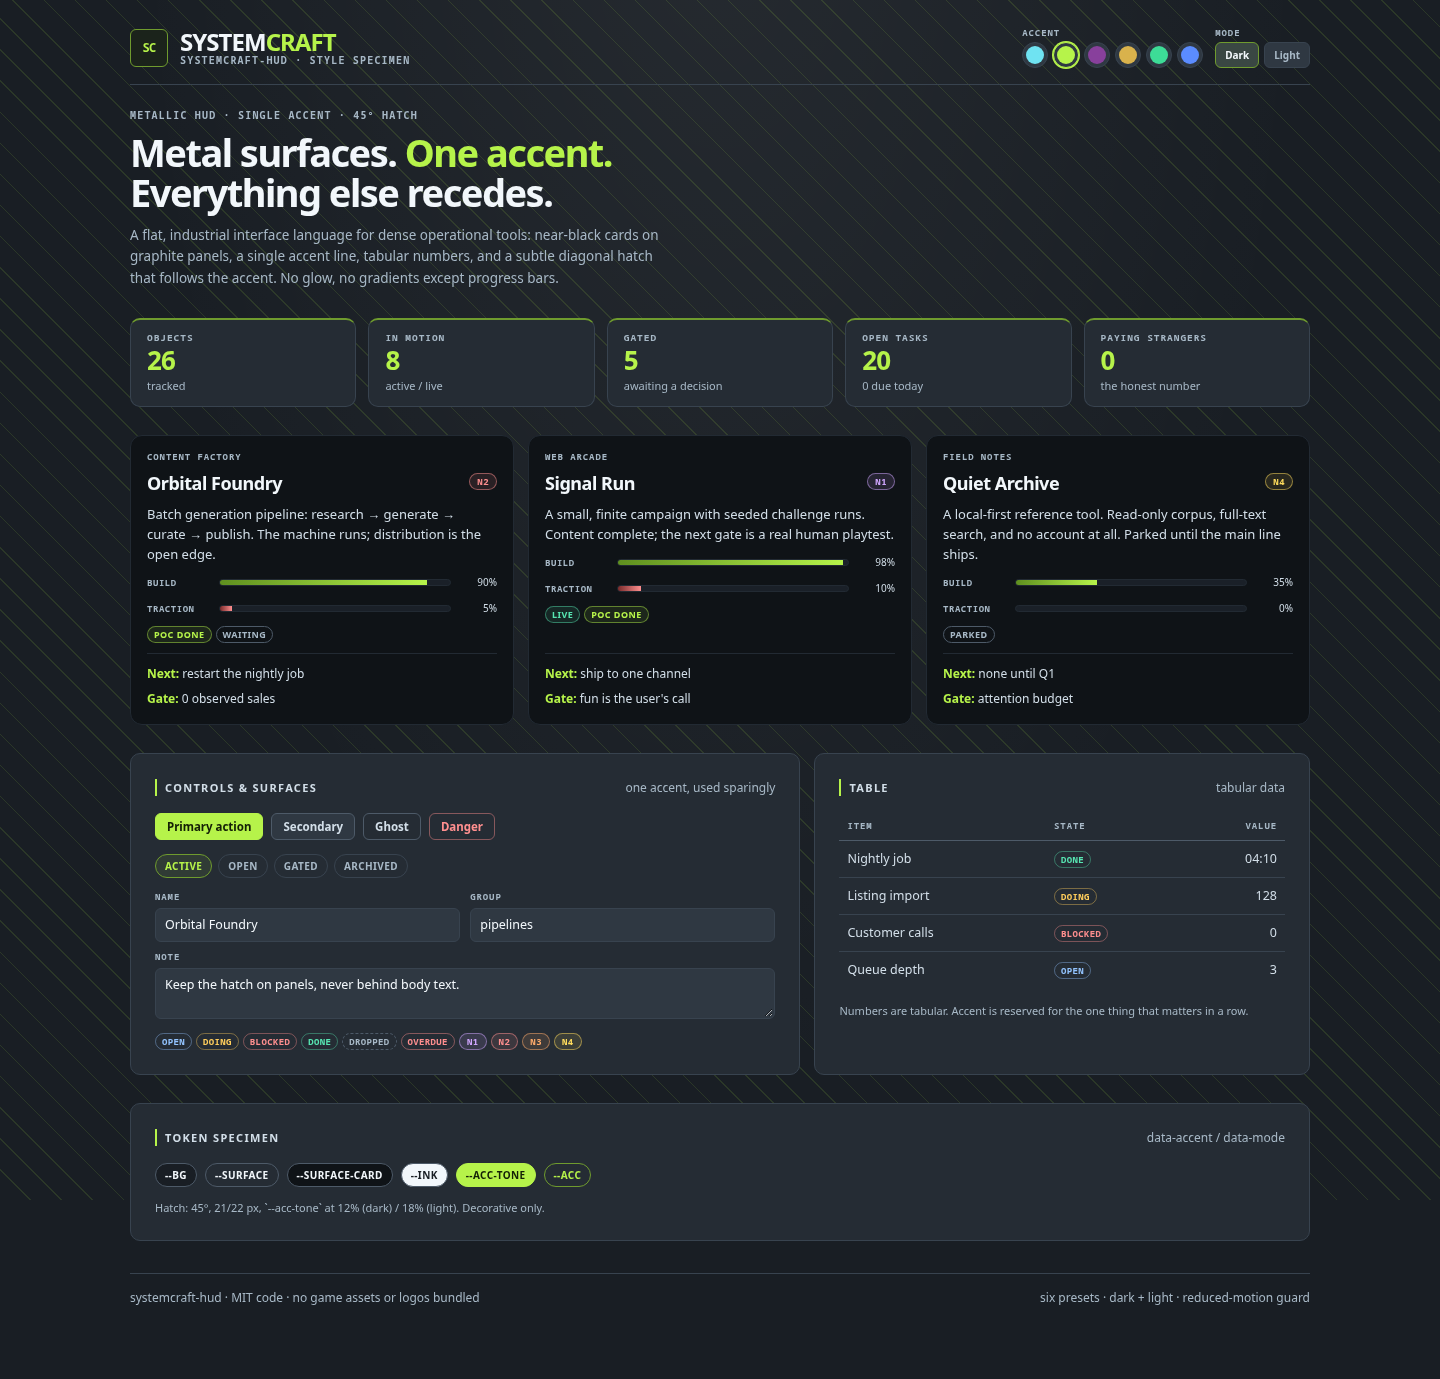
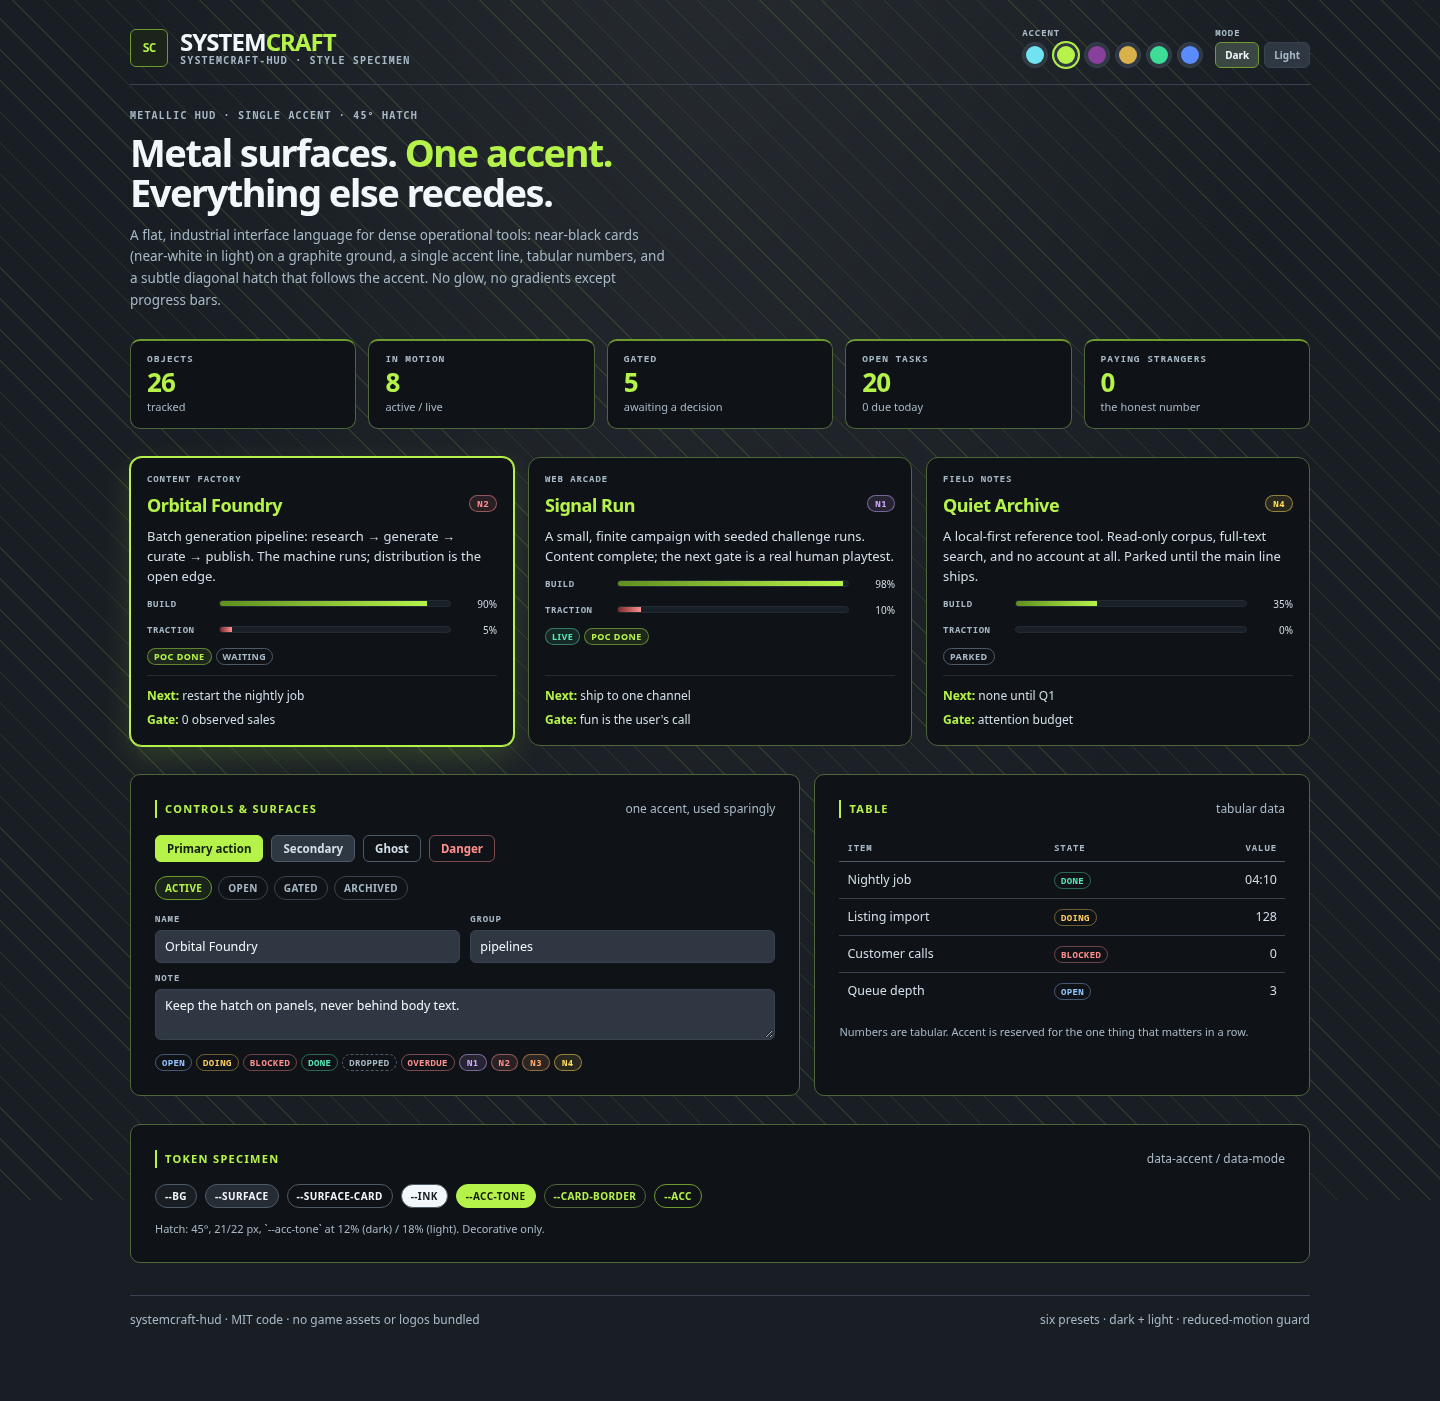
style(systemcraft-hud): black cards, accent titles, and hue hover
Every sc-panel, sc-card, sc-stat, and modal card now uses the card surface, an accent-tinted 1px border, and an accent title. Hover adds a 1px accent ring (visual 2px border) and a 16% accent shadow without lightening the surface or shifting layout. The design spec, tokens, demo, and preview were updated.

diff --git a/styles/systemcraft-hud/theme.css b/styles/systemcraft-hud/theme.css
@@ -76,6 +76,9 @@
   --acc-soft: #5f8f1f;
   --acc-line: #6f9b2e;
   --acc-ink: #142006;
+  --card-border: color-mix(in srgb, var(--acc) 30%, var(--card-line));
+  --card-shadow-hot: 0 0 0 1px var(--acc),
+    0 12px 30px color-mix(in srgb, var(--acc) 16%, transparent);
 }
 
 /* ------------------------------------------------------------ tokens: light */
@@ -437,10 +440,12 @@ textarea {
 }
 
 .sc-panel {
-  background: var(--surface);
-  border: 1px solid var(--line);
+  background: var(--surface-card);
+  border: 1px solid var(--card-border);
   border-radius: var(--r-md);
   padding: var(--s5);
+  transition: border-color var(--dur) var(--ease),
+    box-shadow var(--dur) var(--ease);
 }
 
 .sc-panel-head {
@@ -456,26 +461,21 @@ textarea {
   font-size: 11px;
   text-transform: uppercase;
   letter-spacing: 0.12em;
-  color: var(--ink-2);
+  color: var(--acc);
   padding-left: 8px;
   border-left: 2px solid var(--acc);
 }
 
 .sc-card {
   background: var(--surface-card);
-  border: 1px solid var(--card-line);
+  border: 1px solid var(--card-border);
   border-radius: var(--r-lg);
   padding: var(--s4);
   display: flex;
   flex-direction: column;
   gap: 10px;
   transition: border-color var(--dur) var(--ease),
-    background var(--dur) var(--ease);
-}
-
-.sc-card:hover {
-  border-color: color-mix(in srgb, var(--acc) 26%, var(--line-2));
-  background: var(--card-bg-hover);
+    box-shadow var(--dur) var(--ease);
 }
 
 .sc-card .sc-card-kicker {
@@ -489,6 +489,7 @@ textarea {
   font-size: 18px;
   letter-spacing: -0.025em;
   line-height: 1.15;
+  color: var(--acc);
 }
 
 .sc-card p {
@@ -519,11 +520,13 @@ textarea {
 }
 
 .sc-stat {
-  background: var(--surface);
-  border: 1px solid var(--line);
+  background: var(--surface-card);
+  border: 1px solid var(--card-border);
   border-top: 2px solid var(--acc-line);
   border-radius: var(--r-md);
   padding: var(--s3) var(--s4);
+  transition: border-color var(--dur) var(--ease),
+    box-shadow var(--dur) var(--ease);
 }
 
 .sc-stat .label {
@@ -879,11 +882,29 @@ textarea {
   width: min(520px, 100%);
   max-height: calc(100vh - 40px);
   overflow: auto;
-  background: var(--bg-2);
-  border: 1px solid var(--line-2);
+  background: var(--surface-card);
+  border: 1px solid var(--card-border);
   border-radius: var(--r-lg);
   box-shadow: var(--shadow);
   padding: var(--s5);
+  transition: border-color var(--dur) var(--ease),
+    box-shadow var(--dur) var(--ease);
+}
+
+
+/* card interaction — every card keeps its black surface and gains the accent
+   ring + hue shadow on hover, with no background lightening or layout shift */
+.sc-panel:hover,
+.sc-card:hover,
+.sc-stat:hover,
+.sc-modal .sc-modal-card:hover {
+  border-color: var(--acc);
+  box-shadow: var(--card-shadow-hot);
+}
+
+.sc-modal .sc-modal-card:hover {
+  box-shadow: var(--shadow), 0 0 0 1px var(--acc),
+    0 12px 30px color-mix(in srgb, var(--acc) 16%, transparent);
 }
 
 @media (prefers-reduced-motion: reduce) {

diff --git a/styles/systemcraft-hud/demo.html b/styles/systemcraft-hud/demo.html
@@ -87,7 +87,7 @@
     <div class="sc-kicker">metallic HUD · single accent · 45° hatch</div>
     <h2 class="big">Metal surfaces. <b>One accent.</b><br>Everything else recedes.</h2>
     <p class="sc-sub" style="max-width: 70ch;">A flat, industrial interface language for dense operational tools:
-      near-black cards on graphite panels, a single accent line, tabular numbers, and a subtle diagonal hatch
+      near-black cards (near-white in light) on a graphite ground, a single accent line, tabular numbers, and a subtle diagonal hatch
       that follows the accent. No glow, no gradients except progress bars.</p>
   </section>
 
@@ -206,6 +206,7 @@
       <span class="sc-chip" style="color:var(--ink);background:var(--surface-card);border-color:var(--line-2);">--surface-card</span>
       <span class="sc-chip" style="color:var(--bg);background:var(--ink);border-color:var(--line-2);">--ink</span>
       <span class="sc-chip" style="color:var(--acc-ink);background:var(--acc-tone);border-color:var(--acc-tone);">--acc-tone</span>
+      <span class="sc-chip" style="color:var(--acc);background:var(--surface-card);border-color:var(--card-border);">--card-border</span>
       <span class="sc-chip" style="color:var(--acc);border-color:var(--acc-line);">--acc</span>
     </div>
     <p class="demo-note" style="margin-top:12px;">Hatch: 45°, 21/22 px, `--acc-tone` at 12% (dark) / 18% (light). Decorative only.</p>

diff --git a/styles/systemcraft-hud/DESIGN.md b/styles/systemcraft-hud/DESIGN.md
@@ -22,11 +22,12 @@ numbers, and state must be readable at a glance.
 
 ## Core idea
 
-The style is **metal, not neon**. Surfaces are cool graphite; project cards are
-near-black (dark) or near-white (light); one accent is used for chrome,
-selection, focus, primary actions, and the hatch. Everything else is neutral.
-Depth comes from one-pixel borders and surface value changes, never from glow
-or large shadows.
+The style is **metal, not neon**. The page ground and controls are cool
+graphite; every card is near-black (dark) or near-white (light). One accent
+drives chrome, card titles, card borders, selection, focus, primary actions,
+and the hatch. Everything else is neutral. Depth is a one-pixel border and a
+surface value change; the only accent shadow is the low-opacity hover shadow
+on cards.
 
 The 45° hatch is the recognisable texture. It is decorative and always low
 contrast; it sits behind opaque content and never behind body text. The hatch
@@ -46,15 +47,16 @@ affiliation. A host project can re-point `--acc*` to its own brand.
 |---|---|---|
 | `--bg` | `#191e24` | page |
 | `--bg-2` | `#20262e` | modals / raised ground |
-| `--surface` | `#252c34` | panels |
-| `--surface-card` | `#0f1317` | cards (near-black) |
-| `--surface-2` | `#2f3842` | inputs, hover rails |
+| `--surface` | `#252c34` | controls / chrome |
+| `--surface-card` | `#0f1317` | every card (near-black) |
+| `--surface-2` | `#2f3842` | inputs, rails inside cards |
 | `--surface-3` | `#39434f` | pressed / strong rail |
 | `--line` | `#38434f` | borders |
 | `--line-2` | `#4d5a68` | strong borders |
-| `--card-line` | `#222a33` | card borders |
+| `--card-line` | `#222a33` | card border base |
+| `--card-border` | accent mix | 1 px card border: 30% accent + base |
+| `--card-shadow-hot` | accent mix | hover ring + tinted shadow |
 | `--card-track` | `#1a2028` | progress tracks |
-| `--card-bg-hover` | `#141a20` | card hover |
 | `--ink` | `#f2f7fb` | primary text |
 | `--ink-2` | `#d2dee8` | body text |
 | `--mut` | `#a7b8c6` | muted text / labels |
@@ -154,13 +156,18 @@ No scanlines, no glow, no grain, no vignette.
 
 ## Components
 
-- **Panel** (`sc-panel`): graphite surface, 1 px line, 10 px radius, 24 px
-  padding. A heading gets a 2 px accent left bar.
-- **Card** (`sc-card`): near-black/near-white, 1 px card-line, 12 px radius,
-  16 px padding. Hover lifts the border toward the accent and changes the
-  background to `--card-bg-hover`; no transform, no shadow.
-- **Stat / KPI** (`sc-stat`): panel with a 2 px accent top line; value is the
-  accent, 26 px, tabular. Label is uppercase mono.
+- **Panel** (`sc-panel`): near-black/near-white card surface, 1 px accent-tinted
+  border, 10 px radius, 24 px padding. A heading gets a 2 px accent left bar.
+  Controls inside stay on `--surface-2` for contrast.
+- **Card** (`sc-card`): near-black/near-white, 1 px accent-tinted border,
+  12 px radius, 16 px padding. The title is accent. Hover keeps the black
+  surface, sets the border to full accent, and adds a 1 px accent ring plus a
+  soft hue shadow; no background lightening, no transform.
+- **Stat / KPI** (`sc-stat`): near-black card with a 2 px accent top line; value
+  is the accent, 26 px, tabular. Label is uppercase mono. Same card hover.
+- **Card interaction:** all card-like surfaces share the near-black background,
+  accent-tinted border, accent title, and hover ring/shadow. The visual border
+  becomes 2 px via `box-shadow: 0 0 0 1px var(--acc)`; layout does not shift.
 - **Primary button** (`sc-btn.primary`): solid `--acc-tone`, `--acc-ink` text,
   no shadow. Hover mixes the fill with the page ink (lighter in dark, darker in
   light), so it stays in-family in both modes.
@@ -186,10 +193,11 @@ No scanlines, no glow, no grain, no vignette.
 ## Interaction
 
 - All interactive elements have a visible `:focus-visible` ring in `--acc`.
-- Hover changes border/background/text, never size or position. No `scale`,
-  no `translate` on hover.
-- Transition only `background`, `border-color`, `color`, and `width` (bars);
-  use `160ms` and the shared ease.
+- Cards hover without moving: border goes to `--acc`, a 1 px accent ring makes
+  the edge read as 2 px, and a low-opacity accent shadow appears. The surface
+  stays black; no background lightening, no `scale`, no `translate`.
+- Transition only `background`, `border-color`, `color`, `box-shadow`, and
+  `width` (bars); use `160ms` and the shared ease.
 - `prefers-reduced-motion: reduce` collapses durations to 0.01 ms.
 - Keyboard: native controls; do not remove focus outlines. The demo includes
   buttons, links, inputs, and the theme controls as real focusable elements.
@@ -212,6 +220,9 @@ No scanlines, no glow, no grain, no vignette.
 - The hatch is decorative and low contrast; it must never be the only cue.
   State is always also encoded by text/border.
 - Focus rings are accent-coloured and 2 px; do not rely on colour alone.
+- Card titles use the readable accent (`--acc`), not `--acc-tone`; the accent
+  border and hover shadow are decorative, so the title must still be legible
+  without them.
 - The accent swatches in the theme picker carry `aria-label`; mode buttons use
   `aria-pressed`.
 - Test every new text/background pair. `color-mix()` values in this file are
@@ -223,16 +234,21 @@ No scanlines, no glow, no grain, no vignette.
 
 **Do**
 - Use one accent per screen; let primary actions own the solid fill.
-- Keep cards near-black (dark) / near-white (light) and panels graphite/mist.
-- Use mono for IDs, labels, and numbers; sans for prose.
+- Keep every card near-black (dark) / near-white (light); use graphite/mist for
+  the page and controls inside cards.
+- Use the accent for card titles and the card border; keep body copy neutral.
 - Use 1 px rules and surface value changes for separation.
+- Use the accent ring + hue shadow on card hover; no movement.
 - Keep the hatch behind opaque surfaces.
 - Use tabular numbers in tables, KPIs, and bars.
 
 **Don't**
-- Don't add glow, neon bloom, gradients on surfaces, or scanlines.
+- Don't add glow, neon bloom, gradients on surfaces, or scanlines. The card
+  hover shadow is the only accent shadow and stays at 16% or lower.
 - Don't use the accent for large background areas.
 - Don't use `--acc` as a solid button fill when its ink is not verified.
+- Don't use a second grey card surface; cards are `--surface-card`.
+- Don't lighten the card background on hover or lift it with `transform`.
 - Don't place body text over the hatch.
 - Don't mix more than one accent preset in a single view.
 - Don't use pure black `#000` or pure white `#fff` as page surfaces.
@@ -254,8 +270,10 @@ The six presets are complete palettes. A host can also re-point:
 ```
 
 Keep `--acc` readable as text and `--acc-tone` readable with `--acc-ink`.
-Set `--hatch-line` from `--acc-tone` at the mode percentage. Status colours
-can be re-pointed independently; keep them as text + border + tint.
+Set `--hatch-line` from `--acc-tone` at the mode percentage. Card borders and
+hover shadows are computed from `--acc` and `--card-line`; keep them in the
+same file when re-pointing an accent. Status colours can be re-pointed
+independently; keep them as text + border + tint.
 
 ## Files
 
